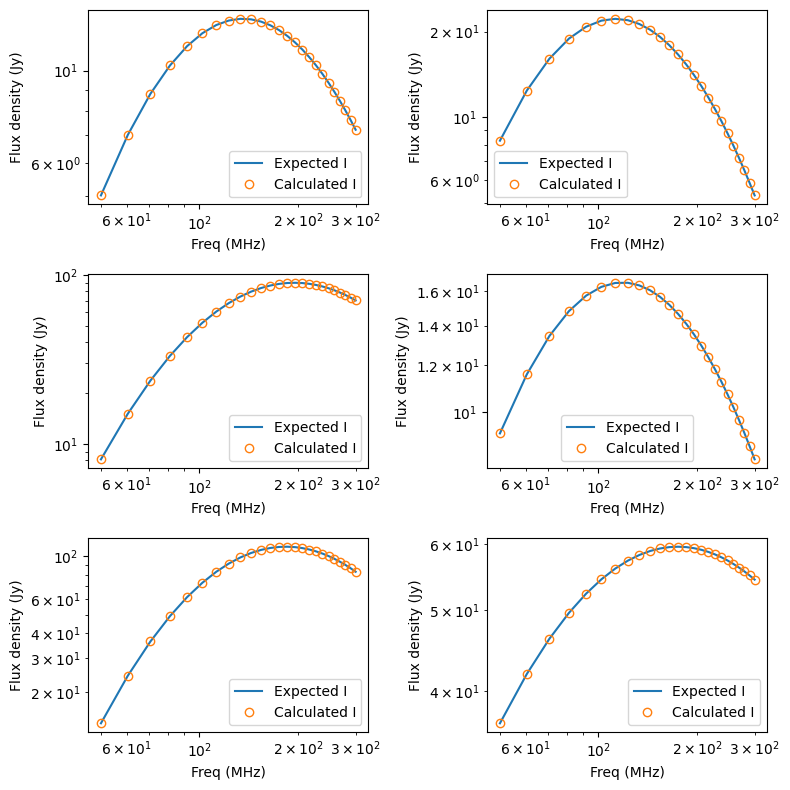
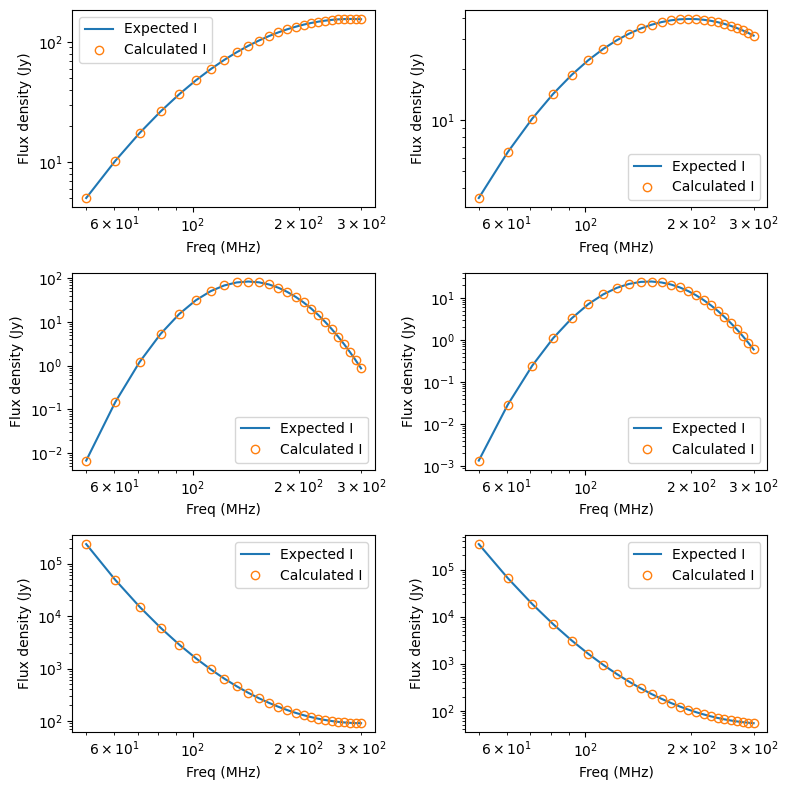
Updates to documentation

diff --git a/cmake_testing/CUDA_code/source_components/test_extrap_stokes.h b/cmake_testing/CUDA_code/source_components/test_extrap_stokes.h
@@ -11,8 +11,8 @@ user_precision_t ref_stokesV[] = {90.2256259763843360,92.5075374231781353,28.005
 double extrap_freqs[] = {5.0000000000000000e+07,6.0416666666666664e+07,7.0833333333333328e+07,8.1250000000000000e+07,9.1666666666666657e+07,1.0208333333333333e+08,1.1250000000000000e+08,1.2291666666666666e+08,1.3333333333333333e+08,1.4375000000000000e+08,1.5416666666666666e+08,1.6458333333333331e+08,1.7500000000000000e+08,1.8541666666666666e+08,1.9583333333333331e+08,2.0625000000000000e+08,2.1666666666666666e+08,2.2708333333333331e+08,2.3750000000000000e+08,2.4791666666666666e+08,2.5833333333333331e+08,2.6875000000000000e+08,2.7916666666666663e+08,2.8958333333333331e+08,3.0000000000000000e+08};
 double ref_freqs[] = {5.0000000000000000e+07,1.0000000000000000e+08,1.5000000000000000e+08,2.0000000000000000e+08,2.5000000000000000e+08,3.0000000000000000e+08};
 user_precision_t ref_power_SIs[] = {-0.1022213328764028,-0.5603205193197343,-1.0306542637199814,-0.0882522570164057,0.4444977423552279,-1.1954750626111341};
-user_precision_t ref_curve_SIs[] = {13.6157341177844504,-11.8656782894759480,-5.2536011090725037,-13.0257343110717105,-4.8721290068964613,-6.7472149428713797};
-user_precision_t ref_qs[] = {-97.8456690522795469,-61.3508883766037414,-50.2619827940067054,-37.0251133503833927,-27.5086126760880347,-24.1195914055085616};
+user_precision_t ref_curve_SIs[] = {3.9805869816599606, 1.7473922337782646,-0.7152342578625103,-4.432750841164616,-0.910260545384106,-0.5190814949517933};
+user_precision_t ref_qs[] = {-1.1540648022374427,-1.2848486571584865,-8.442091275232713 ,-7.984679649768583 ,2.4366766327372646 ,2.439801523394266  };
 int num_list_values[] = {14,8,30,9,27,25};
 int list_start_indexes[] = {0,14,22,52,61,88};
 double list_freqs[] = {5.0000000000000000e+07,6.9230769230769232e+07,8.8461538461538464e+07,1.0769230769230770e+08,1.2692307692307693e+08,1.4615384615384614e+08,1.6538461538461539e+08,1.8461538461538464e+08,2.0384615384615386e+08,2.2307692307692307e+08,2.4230769230769232e+08,2.6153846153846157e+08,2.8076923076923078e+08,3.0000000000000000e+08,5.0000000000000000e+07,8.5714285714285716e+07,1.2142857142857143e+08,1.5714285714285713e+08,1.9285714285714287e+08,2.2857142857142860e+08,2.6428571428571430e+08,3.0000000000000000e+08,5.0000000000000000e+07,5.8620689655172415e+07,6.7241379310344830e+07,7.5862068965517238e+07,8.4482758620689660e+07,9.3103448275862068e+07,1.0172413793103448e+08,1.1034482758620688e+08,1.1896551724137931e+08,1.2758620689655171e+08,1.3620689655172414e+08,1.4482758620689654e+08,1.5344827586206895e+08,1.6206896551724136e+08,1.7068965517241377e+08,1.7931034482758620e+08,1.8793103448275861e+08,1.9655172413793102e+08,2.0517241379310343e+08,2.1379310344827586e+08,2.2241379310344827e+08,2.3103448275862068e+08,2.3965517241379309e+08,2.4827586206896549e+08,2.5689655172413790e+08,2.6551724137931034e+08,2.7413793103448272e+08,2.8275862068965518e+08,2.9137931034482753e+08,3.0000000000000000e+08,5.0000000000000000e+07,8.1250000000000000e+07,1.1250000000000000e+08,1.4375000000000000e+08,1.7500000000000000e+08,2.0625000000000000e+08,2.3750000000000000e+08,2.6875000000000000e+08,3.0000000000000000e+08,5.0000000000000000e+07,5.9615384615384616e+07,6.9230769230769232e+07,7.8846153846153855e+07,8.8461538461538464e+07,9.8076923076923072e+07,1.0769230769230770e+08,1.1730769230769232e+08,1.2692307692307693e+08,1.3653846153846154e+08,1.4615384615384614e+08,1.5576923076923078e+08,1.6538461538461539e+08,1.7500000000000000e+08,1.8461538461538464e+08,1.9423076923076925e+08,2.0384615384615386e+08,2.1346153846153846e+08,2.2307692307692307e+08,2.3269230769230771e+08,2.4230769230769232e+08,2.5192307692307693e+08,2.6153846153846157e+08,2.7115384615384614e+08,2.8076923076923078e+08,2.9038461538461542e+08,3.0000000000000000e+08,5.0000000000000000e+07,6.0416666666666664e+07,7.0833333333333328e+07,8.1250000000000000e+07,9.1666666666666657e+07,1.0208333333333333e+08,1.1250000000000000e+08,1.2291666666666666e+08,1.3333333333333333e+08,1.4375000000000000e+08,1.5416666666666666e+08,1.6458333333333331e+08,1.7500000000000000e+08,1.8541666666666666e+08,1.9583333333333331e+08,2.0625000000000000e+08,2.1666666666666666e+08,2.2708333333333331e+08,2.3750000000000000e+08,2.4791666666666666e+08,2.5833333333333331e+08,2.6875000000000000e+08,2.7916666666666663e+08,2.8958333333333331e+08,3.0000000000000000e+08};

diff --git a/cmake_testing/CUDA_code/source_components/write_test_extrap_stokes_header.py b/cmake_testing/CUDA_code/source_components/write_test_extrap_stokes_header.py
@@ -21,8 +21,8 @@ ref_power_SIs = np.random.uniform(-1.5, 0.5, num_powers)
 
 ##values pulled from model fits to LoBES data
 peak_freqs = np.full(num_curves, 200e+6)
-ref_qs = np.array([-97.84566905227955, -61.35088837660374, -50.261982794006705, -37.02511335038339, -27.508612676088035, -24.11959140550856])
-ref_curve_SIs = np.array([13.61573411778445, -11.865678289475948, -5.253601109072504, -13.02573431107171, -4.872129006896461, -6.74721494287138])
+ref_qs = np.array([-1.1540648022374427,-1.2848486571584865,-8.442091275232713 ,-7.984679649768583 ,2.4366766327372646 ,2.439801523394266])
+ref_curve_SIs = np.array([3.9805869816599606, 1.7473922337782646,-0.7152342578625103,-4.432750841164616,-0.910260545384106,-0.5190814949517933])
 
 ##=======LIST_STUFF=============================================================
 

diff --git a/README.md b/README.md
@@ -4,43 +4,59 @@
 
 [![Documentation Status](https://readthedocs.org/projects/woden/badge/?version=latest)](https://woden.readthedocs.io/en/latest/?badge=latest) [![codecov](https://codecov.io/gh/JLBLine/WODEN/branch/master/graph/badge.svg?token=Q3JFCI5GOC)](https://codecov.io/gh/JLBLine/WODEN) _*note code coverage only applies to `python3` and `C` code, `CUDA` code is not currently supported by code coverage software_
 
-> The `WODEN` documentation lives [here on readthedocs](https://woden.readthedocs.io/en/latest/). If your internet has broken and you have already installed `WODEN`, you can build a local copy by navigating into `WODEN/docs/sphinx` and running `make html` (you'll need to have `doxygen` installed).
+The `WODEN` documentation lives [here on readthedocs](https://woden.readthedocs.io/en/latest/). If your internet has broken and you have already installed `WODEN`, you can build a local copy by navigating into `WODEN/docs/sphinx` and running `make html` (you'll need to have `doxygen` installed).
 
 > **Note**
 > Before ``WODEN`` version 1.4.0, in the output `uvfits` files, the first polarisation (usually called XX) was derived from North-South dipoles, as is the labelling convention according to the IAU. However, most `uvfits` users I've met, as well as the data out of the MWA telescope, define XX as East-West. So although the internal labelling and mathematics within the C/CUDA code is to IAU spec, by default, ``run_woden.py`` now writes out XX as East-West and YY as North-South. From version 1.4.0, a header value of ``IAUORDER = F`` will appear, with ``F`` meaning IAU ordering is False, so the polarisations go EW-EW, NS-NS, EW-NS, NS-EW. If ``IAUORDER = T``, the order is NS-NS, EW-EW, NS-EW, EW-NS. If there is no ``IAUORDER`` at all, assume ``IAUORDER = T``.
 
 `WODEN` is C / CUDA code designed to be able to simulate low-frequency radio interferometric data. It is written to be simplistic and *fast* to allow all-sky simulations. Although `WODEN` was primarily written to simulate Murchinson Widefield Array ([MWA, Tingay et al. 2013](https://doi.org/10.1017/pasa.2012.007)) visibilities, it is becoming less instrument-specific as time goes on. `WODEN` outputs `uvfits` files.
 
-The unique part of `WODEN` is that it can simulate shapelet model sources (along with point and Gaussian) that are compatible with the `RTS` ([Mitchell et al. 2008](https://ieeexplore.ieee.org/document/4703504?arnumber=4703504 "IEEExplorer")). These models are generated with SHApelet Modelling For Interferometers ([SHAMFI](https://github.com/JLBLine/SHAMFI)), specified with the `--woden_srclist` SHAMFI option. It also includes a script to convert a multi-scale CLEAN component list out of [WSClean](https://sourceforge.net/projects/wsclean/) into a `WODEN`-style srclist (when running `WSClean` use the `-save-source-list` option). `WODEN` can also produce visibilities that can be fed directly into the `RTS` to allow testing of calibration and modelling methodologies.
+> New in version 2.0:
+ - Large swathes of the code have been transferred from `C` in `python`
+ - The `C/CUDA` code that remains is called directly from `python` now, meaning the `.json` and `.dat` files are no longer needed
+ - A new FITS sky model format is supported, meaning you can run simulations with greater than 25 million components via lazy loading
+ - I've done away with using Stokes QUV to speed things up. The plan is to implement some kind of rotation measure model to include Q/U, and reinstate Stokes V in a future release
 
 If you have feature requests or want to contribute to `WODEN`, have a read of the
 [guide to contributing](CONTRIBUTION_GUIDE.md) to get started. I welcome the feedback and/or help!
 
 Jack Line \
-January 2022
+October 2023
 
 
 ## 1. Installation
-Read the comprehensive [installation guide on readthedocs](https://woden.readthedocs.io/en/latest/installation/installation.html#dependencies). In short, you will need the dependencies:
+Read the comprehensive [installation guide on readthedocs](https://woden.readthedocs.io/en/latest/installation/installation.html#dependencies). 
+
+The quickest way is to use the new docker image:
+
+```
+docker pull docker://jlbline/woden-2.0
+```
+
+and then run things through Docker or Singularity (more detail on that on [ReadTheDocs](https://woden.readthedocs.io/en/latest/installation/installation.html#dependencies)). This version comes bundled with all the MWA FEE primary beam files which is nice.
+
+If that docker image doesn't support your NVIDIA card, install yourself. Again, go to [ReadTheDocs](https://woden.readthedocs.io/en/latest/installation/installation.html#dependencies) for details, but in short, you will need the dependencies:
 
 - CMake - https://cmake.org version >= 3.10
 - NVIDIA CUDA - https://developer.nvidia.com/cuda-downloads
-- json-c - https://github.com/json-c/json-c
-- ERFA - https://github.com/liberfa/erfa/releases
 - HDF5 - https://www.hdfgroup.org/downloads/hdf5/
-- PAL - https://github.com/Starlink/pal/releases
-- python >= 3.6
-- mwa_hyperbeam - https://github.com/MWATelescope/mwa_hyperbeam (`WODEN` version 1.3.0 onwards)
+- python >= 3.8
+- mwa_hyperbeam - https://github.com/MWATelescope/mwa_hyperbeam
 
-Once you have those, installation is done via `CMake`. Ideally, this will be enough:
+Once you have those, compilation is done via `CMake`. Ideally, this will be enough:
 ```bash
 $ cd WODEN
 $ mkdir build && cd build
 $ cmake ..
 $ make -j 4
-$ sudo make install #(this is optional)
 ```
-with a couple of post-compilation environment variables needed (if you don't want to `make install`). Checkout the [installation guide on readthedocs](https://woden.readthedocs.io/en/latest/installation/installation.html#dependencies) for full details.
+You then install the `python3` code via something like
+```bash
+$ cd WODEN
+$ pip install -r requirements.txt
+$ pip install .
+```
+with a couple of post-compilation environment variables needed to use the MWA FEE primary beam model.
 
 ## 2. Testing
 There are two routes to test WODEN:
@@ -49,11 +65,9 @@ There are two routes to test WODEN:
 
 ## 3. Usage
 
-### 3.1 Python wrapper
+`WODEN` is run via the script `run_woden.py`, which will launch the `woden` executable. All [ `run_woden.py` arguments are explained here on readthedocs](https://woden.readthedocs.io/en/latest/API_reference/python_code/run_woden.html) (or you can type `run_woden.py --help`).
 
-The recommended way to run `WODEN` is via the wrapper script `run_woden.py`, which will launch the `woden` executable. All [ `run_woden.py` arguments are explained here on readthedocs](https://woden.readthedocs.io/en/latest/API_reference/python_code/run_woden.html) (or you can type `run_woden.py --help`).
-
-As `WODEN` is written primarily for the MWA, the simplest way to feed in observational properties is via a `metafits` file. You can [obtain metafits files here](https://asvo.mwatelescope.org/). A minimalistic example command using a metafits file looks like
+As `WODEN` is written primarily for the MWA, the simplest way to feed in observational properties is via a `metafits` file. You can [obtain metafits files here](https://asvo.mwatelescope.org/). A _very_ minimalistic example command using a metafits file looks like
 
 ```bash
 run_woden.py \
@@ -80,55 +94,5 @@ run_woden.py \
 
 `WODEN` can read in an array layout as specified in local east, north, and height, and can simulate for any location on Earth (defaults to the MWA but you can specify Earth location with `--longitude` / `--latitude`).
 
-### 3.2 Direct command line
-
-Alternatively, one can run WODEN directly via the command line, using a `.json` file such as
-```sh
-woden input_file.json
-```
-where an `input_file.json` reads as
-```json
-{
-  "ra0": 50.6700000000,
-  "dec0": -37.2000000000,
-  "num_freqs": 128,
-  "num_time_steps": 240,
-  "cat_filename": "srclist_msclean_fornaxA_phase1+2.txt",
-  "time_res": 0.50000,
-  "frequency_resolution": 10000.000,
-  "chunking_size": 0,
-  "jd_date": 2458165.9714583335444331,
-  "LST": 72.79744734,
-  "array_layout": "WODEN_array_layout.txt",
-  "lowest_channel_freq": 1.6959500000e+08,
-  "latitude": -26.70331944,
-  "coarse_band_width": 1.2800000000e+06,
-  "band_nums": [1,2,3,4,5,6,7,8,9,10,11,12,13,14,15,16,17,18,19,20,21,22,23,24]
-}
-```
-with the input values matching the options listed in the table above. This will only create binary output files however, and not `uvfits` files.
-
-### 3.3 Using multi-scale CLEAN components from WSCLEAN
-To generate a `WODEN`-style source catalogue from a `WSClean` multi-scale CLEAN, simply use the script `convert_WSClean_list_to_WODEN.py`, which will be linked to the build directory upon compilation. An exmaple command is
-```sh
-convert_WSClean_list_to_WODEN.py \
- --file=msclean_output_from_WSClean-sources.txt \
- --outname=srclist-woden_wsclean-model.txt
-```
-
 ## 4. WODEN sky model
-The WODEN sky model uses point sources, elliptical Gaussians, and shapelet models. All sources are currently given a power-law spectral behaviour. A full [breakdown of the sky model lives here on readthedocs](https://woden.readthedocs.io/en/latest/operating_principles/skymodel.html). As an idea, here is a simple sky model of thee point sources:
-
-```
-SOURCE multi_point P 3 G 0 S 0 0
-COMPONENT POINT 4.0 -27.0
-LINEAR 1.8e+08 10.0 0 0 0 -0.4
-ENDCOMPONENT
-COMPONENT POINT 3.0 -37.0
-LINEAR 1.3e+08 1.0.0 0 0 0 -0.786
-ENDCOMPONENT
-COMPONENT POINT 5.0 -47.0
-LINEAR 3.9e+08 0.04 0 0 0 .02
-ENDCOMPONENT
-ENDSOURCE
-```
+The `WODEN` sky model uses point sources, elliptical Gaussians, and shapelet models. All sources can either have power-law, curved power law, or list of flux densities spectral behaviour. A full [breakdown of the sky model lives here on readthedocs](https://woden.readthedocs.io/en/latest/operating_principles/skymodel.html), along with the possible formats to feed into `WODEN`.

diff --git a/docs/sphinx/operating_principles/skymodel.rst b/docs/sphinx/operating_principles/skymodel.rst
@@ -2,15 +2,19 @@
 .. _Line et al. 2020: https://doi.org/10.1017/pasa.2020.18
 .. _SHAMFI readthedocs: https://shamfi.readthedocs.io/en/latest/
 .. _Callingham et al. 2017: https://iopscience.iop.org/article/10.3847/1538-4357/836/2/174/pdf
+.. _Lynch et al. 2021: https://doi.org/10.1017/pasa.2021.50
 
 .. _sky model formats:
 
 Sky model
 ===========================
-Since version >= 1.4, there are three sky model formats that ``WODEN`` accepts; the
+.. warning:: In version 2.0.0 (the current version) ``WODEN`` only reads Stokes I from the sky model, and ignores all Stokes QUV. This is because a) this makes things way faster as we can ignore QUV in call calculations b) the power-law and curved power-law extrapolations of QUV were unphysical and c) no one was using it anyway. I'm hoping in a future release to implement using a rotation measure to get linear polarisation going, and to get reading
+
+
+There are currently three sky model formats that ``WODEN`` accepts; the
 preferred ``FITS`` format, the ``hyperdrive yaml`` format, and the now deprecated native ``WODEN`` format.
 The ``FITS`` and ``yaml`` formats have greater functionality, as curved power law and
-list-style flux behaviours are included, beyond a simple power. The native
+list-style flux behaviours are included, beyond a simple power (but as said above, Stokes QUV are all ignored and only I is used). The native
 ``WODEN`` format only includes power-law behaviour, and will not be developed
 any further.
 
@@ -56,6 +60,84 @@ signal which should bounce around with frequency.
 Sky model formats
 ^^^^^^^^^^^^^^^^^^^^
 
+``LoBES`` FITS sky model format
+----------------------------------
+This sky model follows (and expands upon) the format of the LoBES catalogue `Lynch et al. 2021`_ and is the preferred format as it's the fastest and easiest to lazy load. There are three COMPONENT types: point source; Gaussian; shapelets. These are all the model types as defined in `Line et al. 2020`_ (including the mathematics of how each model is simulated). You can create any number of SOURCEs, each with any number of COMPONENTs, by using the `UNQ_SOURCE_ID` and `NAME` columns as detailed below. The sky model is a FITS file with at least one HDU with the following columns:
+
+
+
+.. list-table:: FITS HDU 0 columns
+   :header-rows: 1
+   :widths: 10 10 80
+   :stub-columns: 1
+
+   *  - Column Name
+      - Unit
+      - Description
+   *  - UNQ_SOURCE_ID
+      -
+      - Unique source ID. This is used to group COMPONENTs into SOURCEs. If you want to have multiple components in a single source, they must have the same ``UNQ_SOURCE_ID``.
+   *  - NAME
+      -
+      - This is a COMPONENT name, and should read as UNQ_SOURCE_ID_C`number` where \`number\` is a COMPONENT number. For example, if you have a SOURCE with UNQ_SOURCE_ID = FornaxA, and you have two components, you should have two rows with NAME = FornaxA_C000 and FornaxA_C001.
+   *  - RA
+      - deg
+      - Right Ascension (J2000)
+   *  - DEC
+      - deg
+      - Declination (J2000)
+   *  - COMP_TYPE
+      -
+      - Specifies if the component is a point source, Gaussian, or shapelet. Entered as either ``P``, ``G``, or ``S``.
+   *  - MAJOR_DC
+      - deg
+      - Major axis of Gaussian or shapelet model
+   *  - MINOR_DC
+      - deg
+      - Minor axis of Gaussian or shapelet model
+   *  - PA_DC
+      - deg
+      - Position angle of Gaussian or shapelet model
+   *  - MOD_TYPE
+      -
+      - The flux model of this component. Can be either ``pl`` (power-law), ``cpl`` (curved power-law), or ``nan`` (list of flux densities).
+   *  - NORM_COMP_PL
+      - Jy
+      - The reference flux for a power-law ``pl`` component model, *must be at the reference frequency 200MHz.*
+   *  - ALPHA_PL
+      -
+      - The spectral index for a power-law ``pl`` component model
+   *  - NORM_COMP_CPL
+      - Jy
+      - The reference flux for a curved power-law ``cpl`` component model, *must be at the reference frequency 200MHz.*
+   *  - ALPHA_CPL
+      -
+      - The spectral index for a curved power-law ``cpl`` component model, *must be at the reference frequency 200MHz.*
+   *  - CURVE_CPL
+      -
+      - The curvature `q` for a curved power-law ``cpl`` component model
+   *  - INT_FLX*frequency*
+      - Jy
+      - A reference Stokes I flux density, where *frequency* is the frequency in MHz. For a list type flux model, you can include as many INT_FLX*frequency* columns as necessary. For example, if you have three reference fluxes at 100, 150, and 200 MHz, you should have three columns INT_FLX100, INT_FLX150, and INT_FLX200.
+
+If you want to include SHAPELETS, you must include a second HDU that details the shapelet basis functions for each component, using the following columns:
+
+.. list-table:: FITS HDU 1 columns
+   :header-rows: 1
+   :widths: 10 80
+   :stub-columns: 1
+
+   *  - Column Name
+      - Description
+   *  - NAME
+      - The COMPONENT name exactly as appears in the first HDU ``NAME`` column. You can have multiple rows for each COMPONENT, each with a unique combination of ``N1``, ``N2``, and ``COEFF``, to include as many shapelet basis functions as necessary. ``WODEN`` will cross-reference the two HDUs to use these basis functions in conjunction with the position and flux model in the first HDU.
+   *  - N1
+      - The first shapelet order
+   *  - N2
+      - The second shapelet order
+   *  - COEFF
+      - The coefficient to multiply this basis function by
+
 ``hyperdrive`` sky model format
 ----------------------------------
 This is the sky model format as `defined for hyperdrive`_. I'll reproduce
@@ -74,7 +156,7 @@ with any number of COMPONENTs.
 Read on for how to detail each model in the ``hyperdrive`` format.
 
 Point sources and flux models
-^^^^^^^^^^^^^^^^^^^^^^^^^^^^^^^^^
+~~~~~~~~~~~~~~~~~~~~~~~~~~~~~~~~
 
 An example of a single SOURCE with a single point source COMPONENT is::
 
@@ -216,7 +298,7 @@ is read in from this sky model:
 Stokes parameter.
 
 Multiple SOURCEs and COMPONENTS
-^^^^^^^^^^^^^^^^^^^^^^^^^^^^^^^^^
+~~~~~~~~~~~~~~~~~~~~~~~~~~~~~~~~
 
 To add multiple SOURCEs, simply repeat the process, e.g.:
 
@@ -282,7 +364,7 @@ also add comments without breaking the sky model:
           v: 0.0
 
 Gaussian sources
-^^^^^^^^^^^^^^^^^^^^
+~~~~~~~~~~~~~~~~~~~~~~~~~~~~~~~~
 
 An example srclist containing a single gaussian::
 
@@ -316,7 +398,7 @@ denote Gaussian specific parameters. The FWHM major ``maj`` and minor ``min`` ax
 are given in arcseconds, with the position angle (East from North) given in degrees.
 
 Shapelet sources
-^^^^^^^^^^^^^^^^^^^^
+~~~~~~~~~~~~~~~~~~~~~~~~~~~~~~~~
 
 To generate shapelet models compatible with ``WODEN``, use ``SHAMFI`` to fit an
 image with the ``--woden_srclist`` option (again see `SHAMFI readthedocs`_.
@@ -382,7 +464,7 @@ the coefficients will be scaled such that the integrated Stokes I flux density o
 source will be 10 Jy at 150 MHz for this example.
 
 Putting it all together
-^^^^^^^^^^^^^^^^^^^^^^^^^
+~~~~~~~~~~~~~~~~~~~~~~~~~~~~~~~~
 
 An example skymodel with four sources, the first with all component types, the next three with a single component of each type,  would look something like this::
 
@@ -534,7 +616,7 @@ Currently, every source is given a simple power-law frequency behaviour as:
 where :math:`S` is the flux density at frequency :math:`\nu`, with a reference flux density :math:`S_0`, reference frequency :math:`\nu_0`, and spectral index  :math:`\alpha`.
 
 Point sources
-^^^^^^^^^^^^^^^^^^^^
+~~~~~~~~~~~~~~~~~~~~~~~~~~~~~~~~
 
 An example of a single SOURCE with a single point source COMPONENT is::
 
@@ -598,7 +680,7 @@ noting that at the very top line, I have updated ``P 3`` to reflect there are no
 .. note:: ``WODEN`` crops everything below the horizon out of the sky model. It can do this one of two ways - either by ``COMPONENT`` or by ``SOURCE``. In the example above, we have three COMPONENT in one SOURCE. If you ask ``WODEN`` to crop by ``SOURCE``, if just one of the ``COMPONENTS`` is below the horizon, it'll crop the *entire* source.
 
 Gaussian sources
-^^^^^^^^^^^^^^^^^^^^
+~~~~~~~~~~~~~~~~~~~~~~~~~~~~~~~~
 
 An example srclist containing a single gaussian::
 
@@ -616,7 +698,7 @@ where all lines have the same meaning as the point source, and the meaning of th
 which specifies the Gaussian parameters as ``GPARAMS pa(deg) major_axis(arcmin) minor_axis(arcmin)``. The major and minor axes are specified as FWHM. Note this line needs to sit in between the lines starting with ```COMPONENT GAUSSIAN`` and ```ENDCOMPONENT``.
 
 Shapelet sources
-^^^^^^^^^^^^^^^^^^^^
+~~~~~~~~~~~~~~~~~~~~~~~~~~~~~~~~
 
 To generate shapelet models compatible with WODEN, simply use ``SHAMFI`` to fit an image with the ``--woden_srclist`` option (again see `SHAMFI readthedocs`_. for more detail). This will ensure all normalisations are correct. An example sky model (made by hand so the normalisations *won't* be correct) is::
 
@@ -641,7 +723,7 @@ encode the order of the shapelet basis function (see `Line et al. 2020`_ for det
 This line will still assume a power-law frequency behaviour, with a reference flux of 10 Jy at 180 MHz, but use a default SI = -0.8.
 
 Putting it all together
-^^^^^^^^^^^^^^^^^^^^^^^^^
+~~~~~~~~~~~~~~~~~~~~~~~~~~~~~~~~
 
 An example skymodel with four sources, the first with all component types, the next three with a single component of each type,  would look something like this::
 
